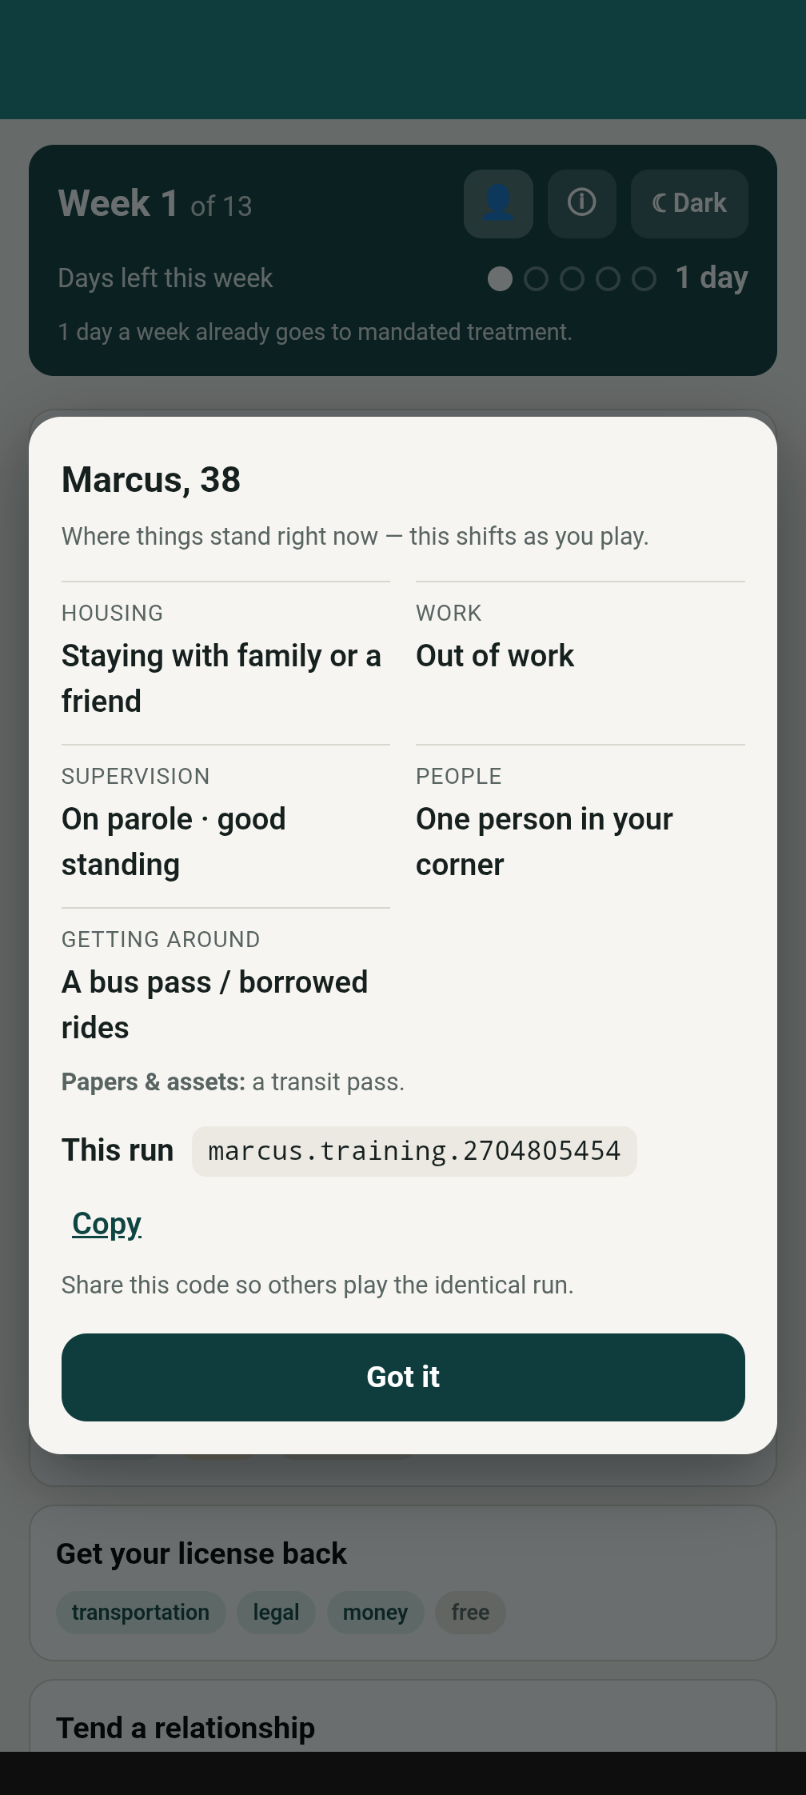
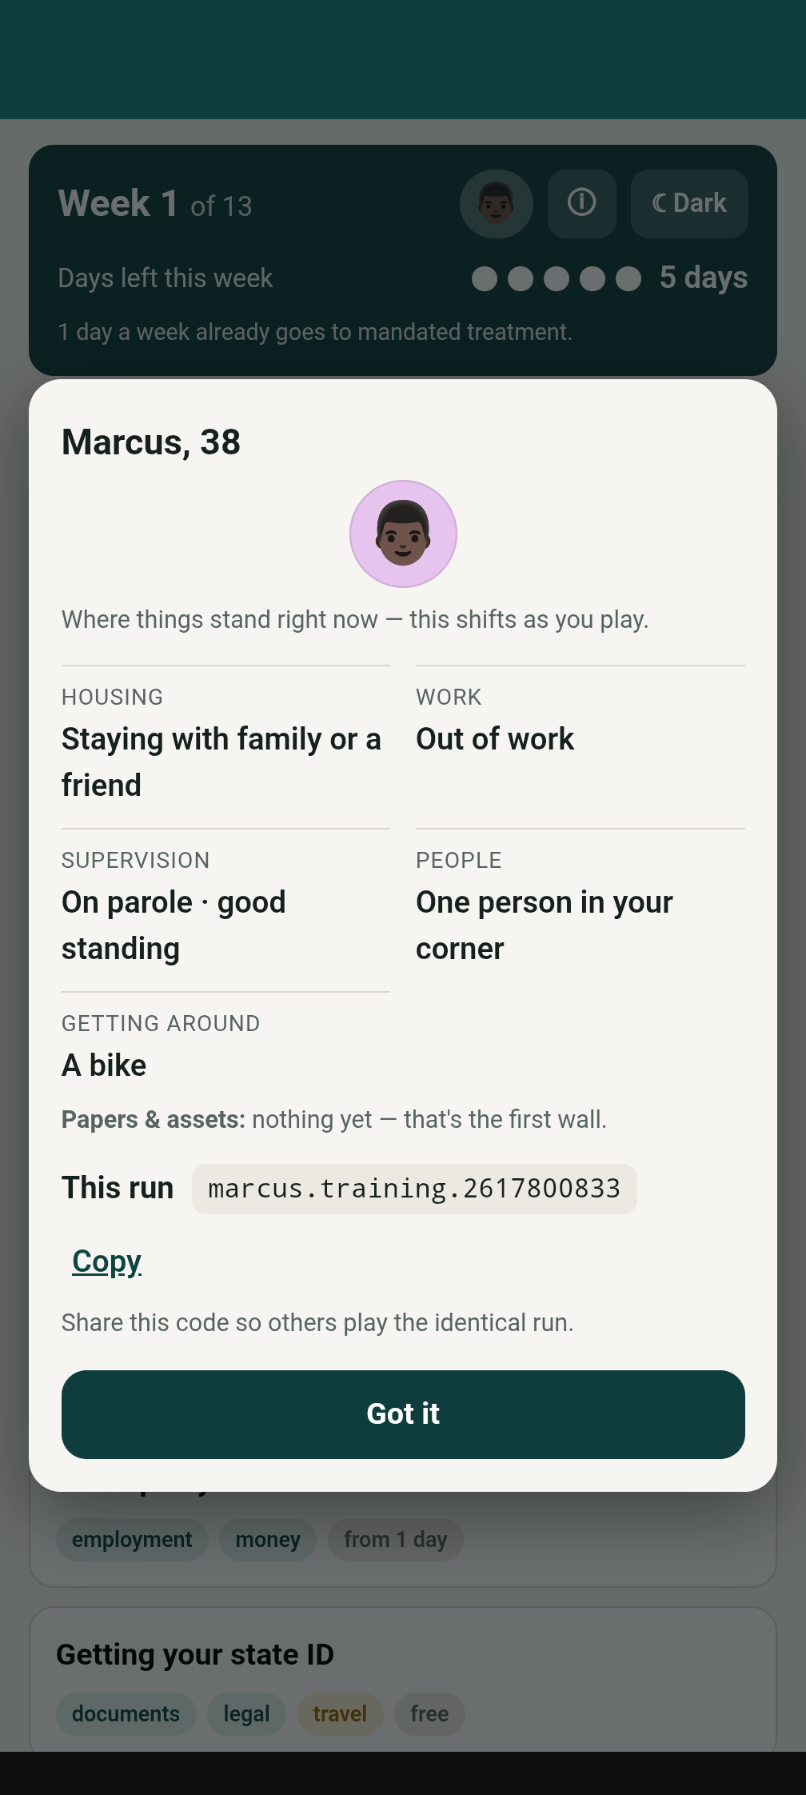
Release v1.3.0 (#34)
* Release v1.3.0: doc-accuracy pass + promote changelog, bump to 1.3.0

v1.3.0 = three new builds (nine total) with a reunifying-parent custody arc, random life
events (loss or blessing), housing & transport ladders, a redesigned character-select
(avatars + unique tags + expandable cards), a closable event drawer, a clearer document
chain, and locked-choice screen-reader announcement.

Doc-accuracy pass: refreshed stale current-state version/count references across README,
docs/DESIGN, docs/SPRINTS, docs/ABOUT, and DEVELOPMENT (v1.0.0 -> through v1.3.0; six
builds -> nine; 28 -> 35 events). Historical sprint/changelog records left intact.

* docs: refresh character-select + situation-panel screenshots for the v1.3.0 UI

Swap in on-device captures of the redesigned character select (avatars + unique tags +
compact cards) and the situation panel (now showing the character's avatar).

---------

Changed region(s): [[0.031, 0.0936, 0.9615, 0.9671], [0.5583, 0.8735, 0.5893, 0.9047], [0.5273, 0.9359, 0.5583, 0.9671]]

diff --git a/DEVELOPMENT.md b/DEVELOPMENT.md
@@ -1,7 +1,9 @@
-# Day One — development notes (Sprints 0–5, shipped as v1.0.0)
+# Day One — development notes (build log)
 
 A phone-first reentry simulator, playable start-to-debrief and **live in production
-(v1.0.0)**. This file is the per-sprint build log — how to run it and what was built.
+(through v1.3.0)**. This file is the per-sprint build log — how to run it and what was
+built. The v1.0.0 foundation (Sprints 0–5) is below; releases since are in
+[`CHANGELOG.md`](CHANGELOG.md).
 The design source of truth is `docs/DESIGN.md`; the roadmap is `docs/SPRINTS.md`.
 
 ## Run it
@@ -183,11 +185,13 @@ Everything past the original roadmap, built out before the first release:
   finishing or even starting a run. Still open: jurisdiction-specific **local** listings
   (the file documents how to add them) and an optional jurisdiction selector.
 - **Content breadth (ongoing):** a transportation/housing pass added three events
-  (license restoration, a community/used bike, and recovery housing) — now **28 events
-  / 21 actions**, with transportation no longer a one-event track. A sixth archetype,
-  **Cal**, added the first **unsupervised "max-out"** build (`supervision: none`,
-  pure origin data) — every prior build was on parole or probation.
-- **Still open:** the local resource listings above, more archetype diversity (an
-  unsupervised build landed; a reunifying-parent or young-first-timer build are next),
-  and ongoing balance/field-testing.
+  (license restoration, a community/used bike, and recovery housing); **Cal** added the
+  first **unsupervised "max-out"** build. Since then: housing & transport **ladders**
+  (you only move up), **random life events** (one loss or blessing per run), and three
+  more archetypes — **Jaylen** (young first-timer), **Gloria** ("has it all"), and
+  **Tasha** (a reunifying parent with a custody arc) — bringing the roster to **nine**
+  and the corpus to **35 events**. The character-select screen was redesigned (avatars,
+  unique tags, expandable cards).
+- **Still open:** the local resource listings above, deeper per-track content and the
+  custody arc, plus ongoing balance/field-testing. See [`ROADMAP.md`](ROADMAP.md).
 ```

diff --git a/docs/ABOUT.md b/docs/ABOUT.md
@@ -63,14 +63,18 @@ it aren't imagined — they're remembered.
   where things landed and a week-by-week replay of *how* you got there — the part
   you can actually learn from.
 
-You choose **who** to play and **why** you're here. There are six hand-built
-people, ranging from hard to brutal — someone with real skills but no documents;
+You choose **who** to play and **why** you're here. There are nine hand-built
+people, ranging from gentle to brutal — someone with real skills but no documents;
 someone whose family showed up, to show what support changes; someone carrying the
 weight of probation (fees, court dates, mandated hours); someone with a registry
 requirement that makes housing and work near-impossible; a "longtimer" home after
 two decades, facing a technology gap and the mental-health weight of all those
-years; and someone who "maxed out" — released with no supervision at all, and so
-no officer, no programs, and no one pointing the way. There's also a **"Surprise
+years; someone who "maxed out" — released with no supervision at all, and so no
+officer, no programs, and no one pointing the way; a young first-timer whose wall is
+inexperience rather than a record; a parent bending every week toward a custody
+hearing to get her daughter back; and — for contrast — someone who came home to
+everything intact (a job, savings, support), to show how much the starting deck
+matters. There's also a **"Surprise
 me"** option that generates a fresh,
 coherent person for you. And you pick a framing: **Training** (practice, always a
 way forward) or **Empathy** (feel the wall — the deep end). Throughout, the system

diff --git a/README.md b/README.md
@@ -33,7 +33,7 @@ are remembered, not imagined.
 
 | The landing page | Who will you play? |
 | :---: | :---: |
-| ![Day One's landing page — sunrise logo, Play / About, theme controls](docs/screenshots/landing.png) | ![Character select — reentry builds, each with time inside, supervision, and where they're sleeping](docs/screenshots/character-select.png) |
+| ![Day One's landing page — sunrise logo, Play / About, theme controls](docs/screenshots/landing.png) | ![Character select — nine builds, each with an avatar and a one-line identity; tap to expand and Play](docs/screenshots/character-select.png) |
 | **The weekly turn** | **The document catch-22** |
 | ![A week in play — resource bars, a "rent is due" interrupt, a parole check-in due, and the actions you can take](docs/screenshots/turn-screen.png) | ![Getting a state ID — the right next move shown locked, listing what it requires](docs/screenshots/event-state-id.png) |
 | **Your situation** | **Ninety days — the debrief** |
@@ -48,8 +48,13 @@ trajectory and decisions, not just where you finished.
 
 ## Status
 
-**Released as [v1.0.0](https://github.com/brett-buskirk/day-one/releases/tag/v1.0.0)**,
-live in production. Playable end-to-end; Sprints 0–5 of the roadmap are complete:
+**Live in production**, released through
+**[v1.3.0](https://github.com/brett-buskirk/day-one/releases/tag/v1.3.0)**. The v1.0.0
+foundation — Sprints 0–5 — is summarized below; every release since (see
+[`CHANGELOG.md`](CHANGELOG.md)) layered on more: the "Where to get help" resource
+directory, three more archetypes, housing & transport **ladders**, **random life
+events**, a reunifying-parent **custody arc**, and a redesigned character-select.
+Playable end-to-end:
 
 - **Sprint 0** — scaffold + content pipeline (YAML → validated JSON).
 - **Sprint 1** — the walking skeleton: a full ~13-week run to a debrief.

diff --git a/CHANGELOG.md b/CHANGELOG.md
@@ -7,6 +7,13 @@ this project adheres to [Semantic Versioning](https://semver.org/spec/v2.0.0.htm
 
 ## [Unreleased]
 
+## [1.3.0] - 2026-06-22
+
+The biggest content release yet: three new character builds (nine total) — including a
+reunifying-parent **custody arc** — **random life events** that cut both ways, housing &
+transport **ladders**, a redesigned character-select with **avatars**, plus a clearer
+document chain and accessibility wins.
+
 ### Added
 - **Three new character builds**, bringing the roster to nine: **Jaylen** (a young
   first-timer, walled by inexperience rather than a record), **Gloria** (the "has it all"
@@ -191,7 +198,8 @@ after release, one weekly turn at a time, as an installable, offline PWA.
 ### Deployed
 - Live at [dayone-sim.app](https://dayone-sim.app) on DigitalOcean App Platform.
 
-[Unreleased]: https://github.com/brett-buskirk/day-one/compare/v1.2.2...HEAD
+[Unreleased]: https://github.com/brett-buskirk/day-one/compare/v1.3.0...HEAD
+[1.3.0]: https://github.com/brett-buskirk/day-one/compare/v1.2.2...v1.3.0
 [1.2.2]: https://github.com/brett-buskirk/day-one/compare/v1.2.1...v1.2.2
 [1.2.1]: https://github.com/brett-buskirk/day-one/compare/v1.2.0...v1.2.1
 [1.2.0]: https://github.com/brett-buskirk/day-one/compare/v1.1.0...v1.2.0

diff --git a/docs/DESIGN.md b/docs/DESIGN.md
@@ -4,7 +4,7 @@ This is the source of truth for the build. It captures the decisions made during
 design so the engine can be implemented without re-deriving them. Where it says
 "tuning," the exact number is a knob to balance later, not a thing to block on.
 
-> **Implementation status:** built and shipped as **v1.0.0**, and the spec still
+> **Implementation status:** built and live in production (through **v1.3.0**), and the spec still
 > holds. Where it scoped features as "v2" (§8, §14) — random character generation
 > and the classroom/facilitator hooks — those have since shipped; a real resource
 > directory remains a data hook only. See [`DEVELOPMENT.md`](../DEVELOPMENT.md) for
@@ -510,6 +510,6 @@ Not in the walking skeleton, deliberately. *(Status added post-v1.0.0.)*
   (`content/resources.yaml` ships verified national resources, rendered in the training
   debrief); a jurisdiction-specific directory / selector is still future.
 - A deep build on any single track — v1 stayed thin across all four; the depth since
-  has been breadth *across* tracks (now 28 events), not one track deep.
+  has been breadth *across* tracks (now 35 events), not one track deep.
 
 When in doubt, ship the skeleton thin and complete rather than one track deep.

diff --git a/docs/SPRINTS.md b/docs/SPRINTS.md
@@ -91,7 +91,7 @@ can be exported.
 
 ## Sprint 4+ — depth (v2)
 
-- ✓ Broaden the corpus per track (now **28 events / 21 actions** across all four tracks).
+- ✓ Broaden the corpus per track (now **35 events** across all four tracks).
 - ✓ Random character generation (`randomOrigin(seed)` — the "Surprise me" build).
 - ✓ Classroom/facilitator features on the deterministic + export hooks
   (`character.mode.seed` scenario codes).